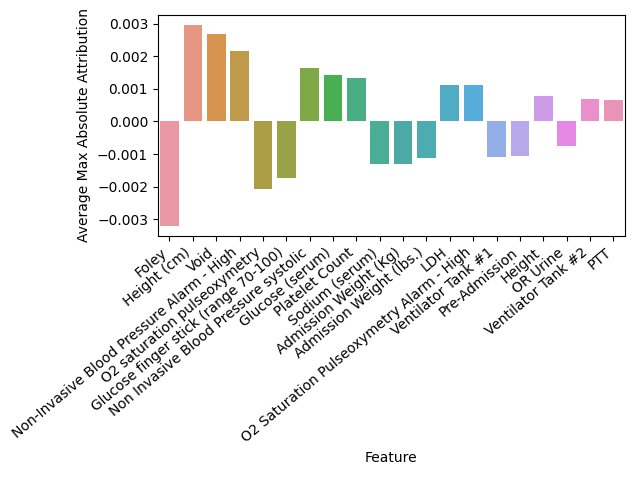
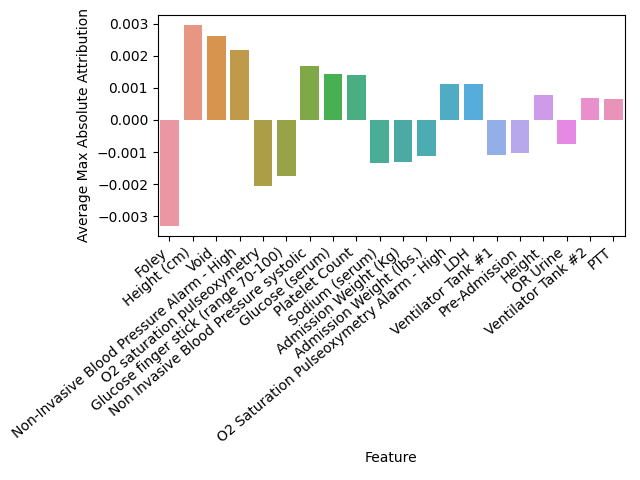
Enhance local importance sample selection

diff --git a/src/tabsep/modeling/tstCaptum.py b/src/tabsep/modeling/tstCaptum.py
@@ -84,6 +84,7 @@ if __name__ == "__main__":
     )
 
     attributions_list = list()
+    pad_mask_list = list()
 
     for xbatch, _ in dl:
         xbatch = xbatch.to(device)
@@ -99,8 +100,10 @@ if __name__ == "__main__":
         ig = InputXGradient(model)  # TODO: are there more modern methods?
         attributions = ig.attribute(xbatch, additional_forward_args=pad_masks, target=0)
         attributions_list.append(attributions.cpu())
+        pad_mask_list.append(pad_masks.cpu())
 
     attributions_all = torch.concat(attributions_list, dim=0)
+    pad_masks_all = torch.concat(pad_mask_list, dim=0)
     print("Got attributions")
 
     ##########
@@ -147,19 +150,48 @@ if __name__ == "__main__":
     ##########
     # Local attribution of first sepsis patient (idx 49 is longest ICU stay)
     ##########
-    sample_idx = 49
+    preds = torch.load(f"cache/models/{model_id}/preds.pt")
+
+    # # First septic stay w/length > 10 indices
+    # sample_idx = np.argmax(
+    #     torch.logical_and(y_test == 1, torch.sum(X_test[:, :, -1], dim=1) > 10)
+    # )
+
+    # # Most confident predictions
+    # sample_idx = torch.argmax(preds)
+
+    # First septic stay w/length > 5, but less than 15 and predicted correctly
+    # TODO: we can do better than nested ands...
+    sample_idx = np.argmax(
+        torch.logical_and(
+            torch.logical_and(y_test == 1, torch.sum(X_test[:, :, -1], dim=1) > 3,),
+            torch.logical_and(torch.sum(X_test[:, :, -1], dim=1) < 25, preds > 0.5,),
+        )
+    )
+
+    print(f"Analyzing local importance of idx {sample_idx}")
     sample_case = pd.DataFrame(attributions_all[sample_idx].cpu().detach().numpy())
 
     sample_case.columns = get_feature_labels()
     # Truncate by padding mask
-    sample_case = sample_case[pad_masks[sample_idx].tolist()]
-    max_absolute_attribution = sample_case.abs().apply(lambda col: col.max())
+    sample_case = sample_case[pad_masks_all[sample_idx].tolist()]
+    max_absolute_attribution = sample_case.abs().apply(lambda col: col.sum())
     top_n_features = max_absolute_attribution.nlargest(n=20).index
 
     sample_case = sample_case.drop(
         columns=[c for c in sample_case.columns if c not in top_n_features]
     )
 
-    ax = sns.heatmap(sample_case)
+    sample_case.index = (
+        sample_case.index * 6
+    )  # TODO: this will change if timestep changes
+
+    sample_case.index.name = "Time in ICU (hrs.)"
+
+    ax = sns.heatmap(sample_case, linewidths=0.01, linecolor="black")
     ax.set_xticklabels(ax.get_xticklabels(), rotation=40, ha="right")
+    ax.set_yticklabels(ax.get_yticklabels(), rotation=0)
+    ax.set_title(
+        f"Validation set idx {sample_idx} prediction {preds[sample_idx]:.2f} actual {y_test[sample_idx]:.2f}"
+    )
     plt.savefig("results/local_importance.png", bbox_inches="tight")
